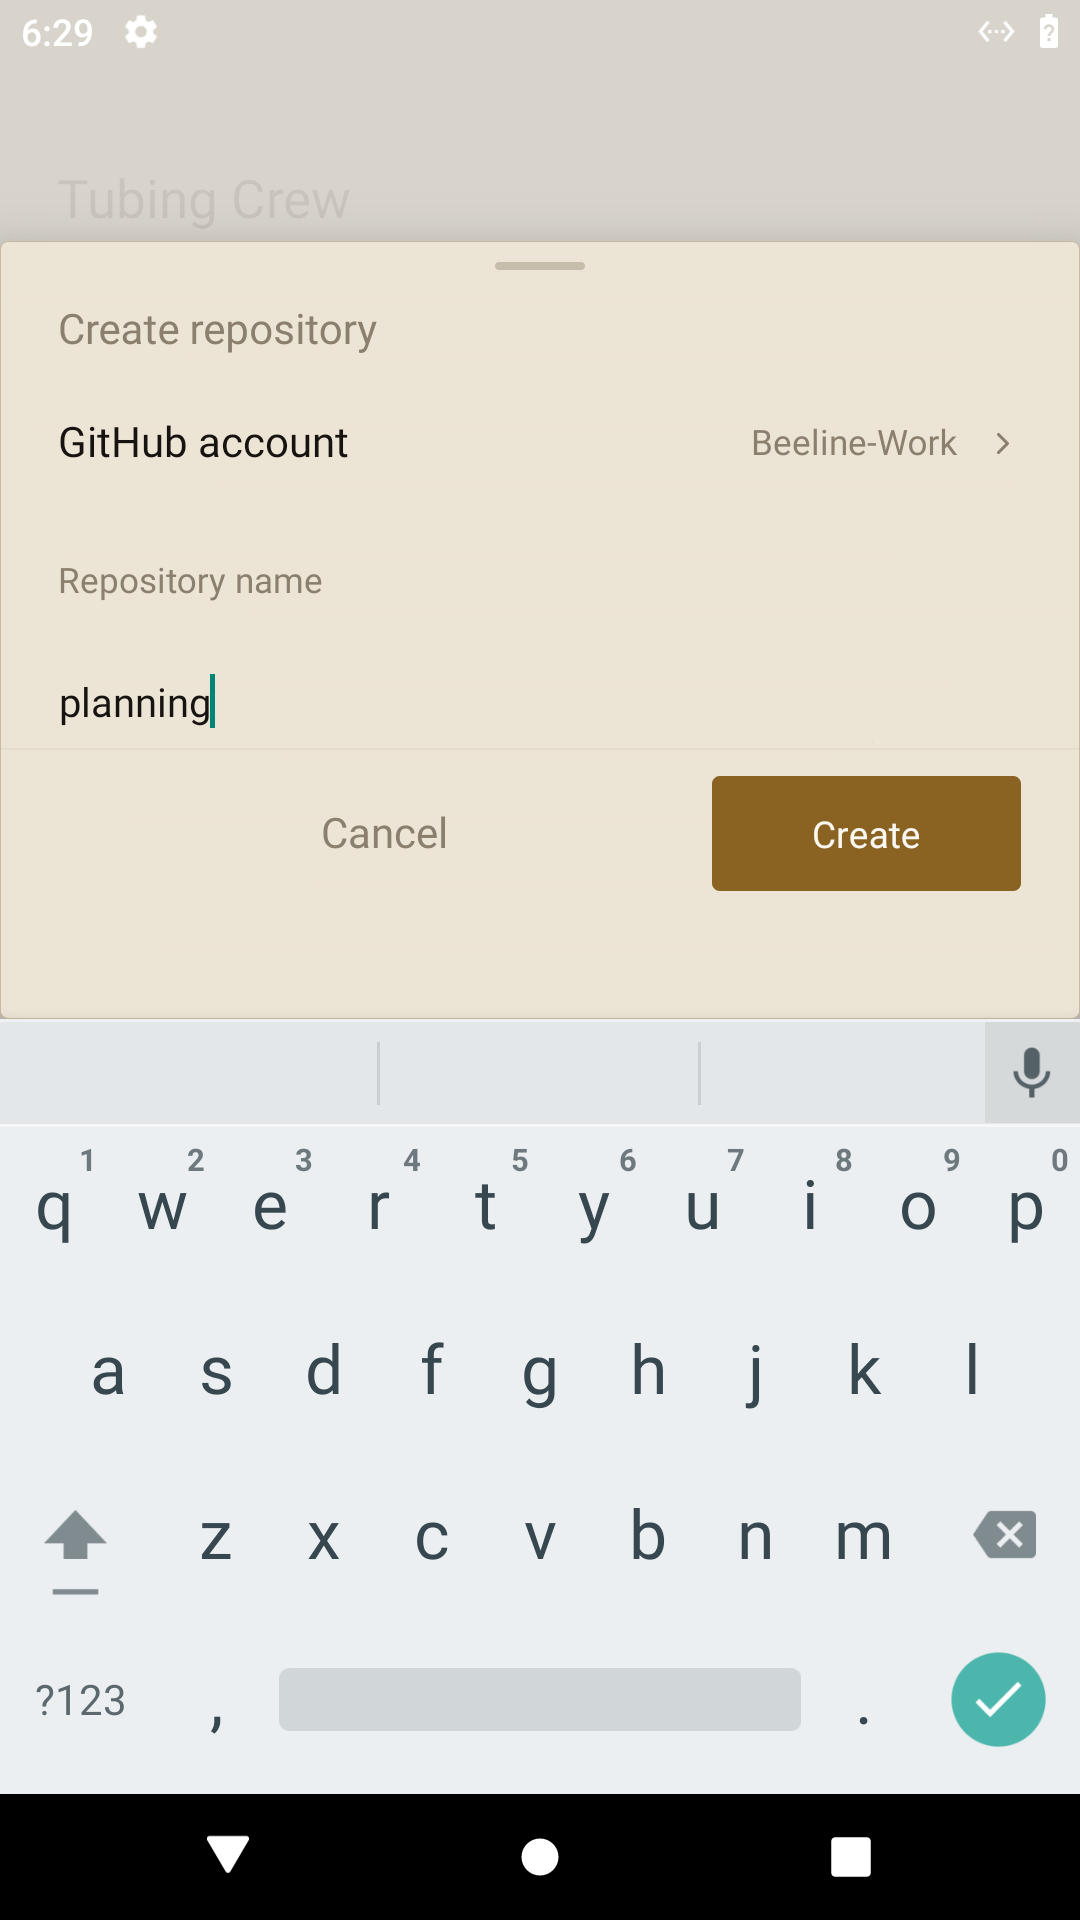
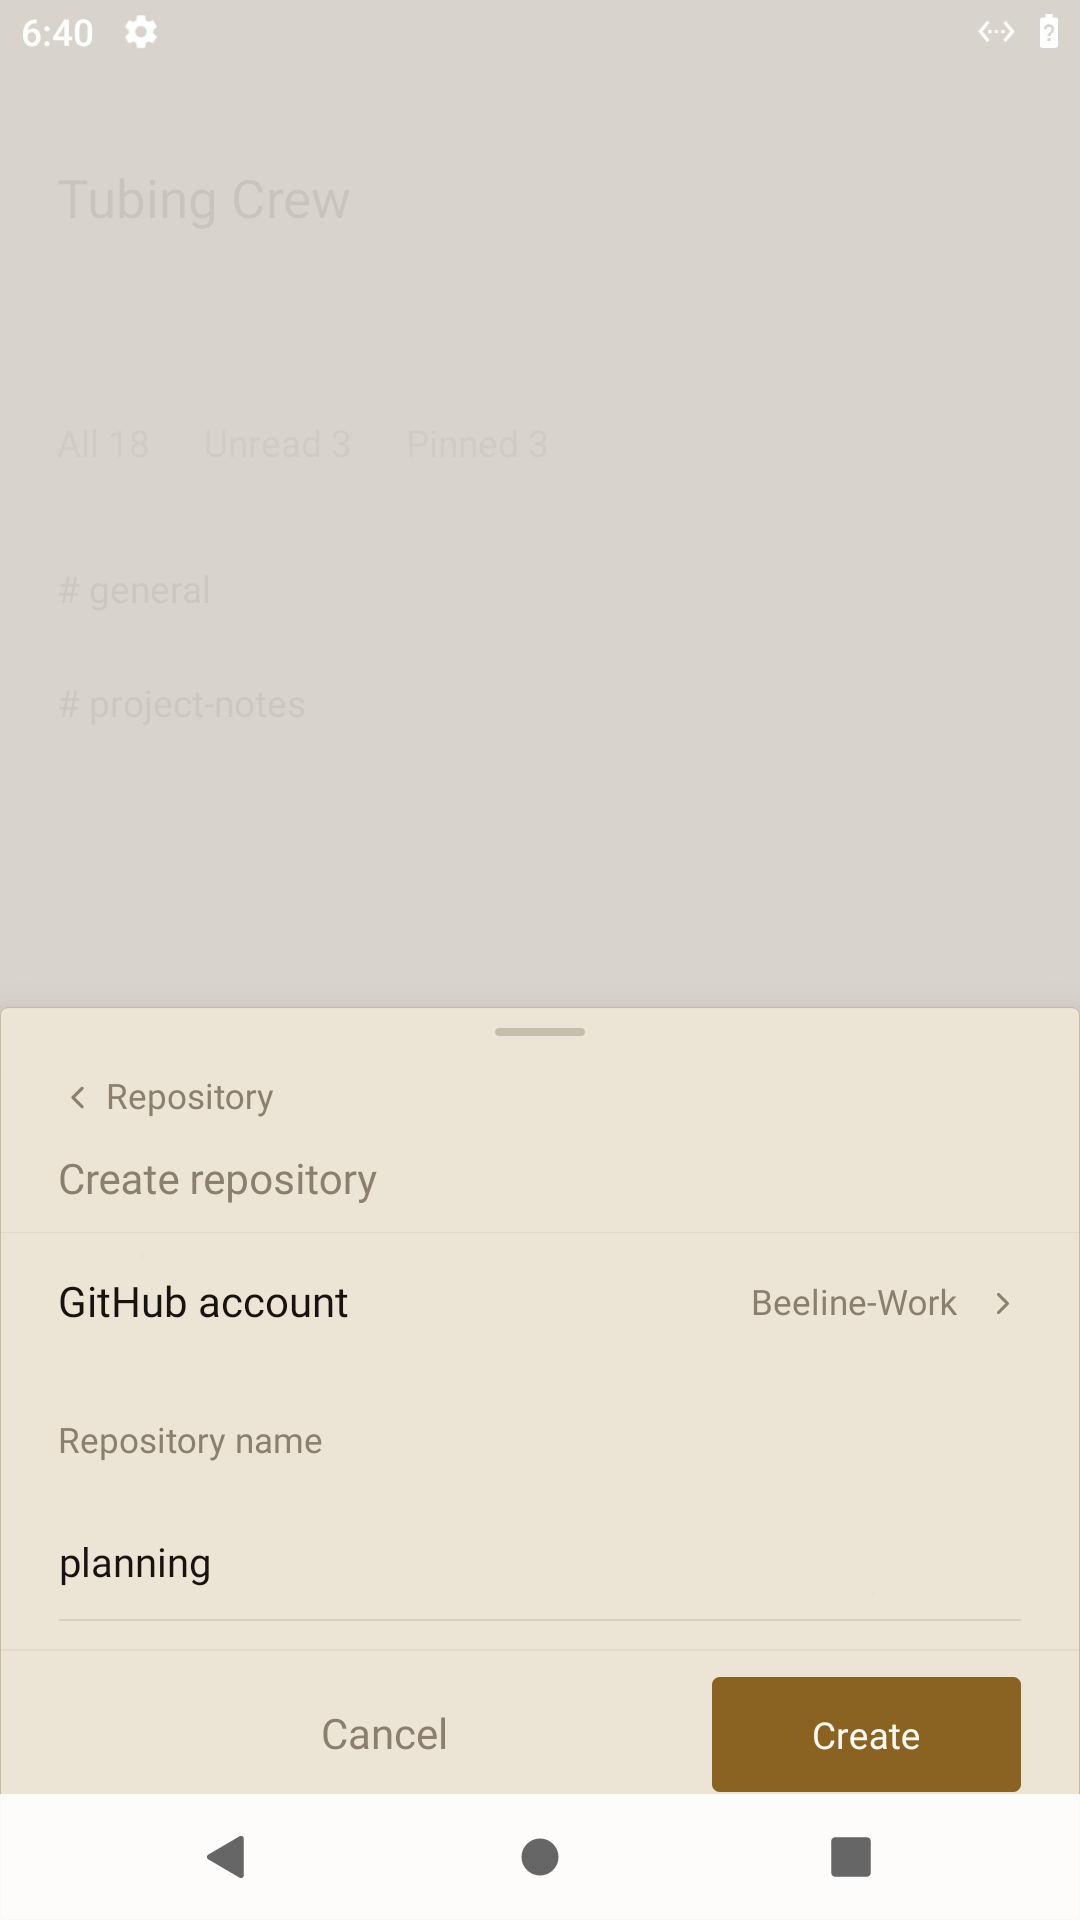
Align Room picker steps with native sheet structure

diff --git a/apps/mobile/sources/components/buzz/NewRoomDialog.tsx b/apps/mobile/sources/components/buzz/NewRoomDialog.tsx
@@ -119,6 +119,20 @@ export function NewRoomDialog({
       dismissOnBackdrop={!creatingRoom && !creatingRepository}
       onClose={closeStep}
       scrollBody={step !== 'picker'}
+      navigation={
+        step === 'create' ? (
+          <TouchableOpacity
+            accessibilityRole="button"
+            disabled={creatingRepository}
+            onPress={() => setCreatingRepoStep(false)}
+            style={styles.backRow}
+            testID="create-repository-back"
+          >
+            <ChevronGlyph color={styles.chevron.color} direction="left" size={CHEVRON_ROW_SIZE} />
+            <Text style={styles.backText}>Repository</Text>
+          </TouchableOpacity>
+        ) : undefined
+      }
       testID="new-room-dialog"
       title={title}
       visible={visible}
@@ -207,15 +221,6 @@ export function NewRoomDialog({
       )}
       {step === 'picker' && (
         <View style={styles.picker} testID="create-room-picker">
-          <TouchableOpacity
-            accessibilityRole="button"
-            onPress={handleSelectNoRepository}
-            style={styles.row}
-            testID="create-room-no-repository"
-          >
-            <Text style={styles.rowLabel}>No repository</Text>
-            {!pendingRepo && <Text style={styles.selectedMark}>✓</Text>}
-          </TouchableOpacity>
           <View style={styles.pickerContent}>
             <RepoPicker
               candidates={repoCandidates}
@@ -232,6 +237,8 @@ export function NewRoomDialog({
                 setCreatingRepoStep(true);
               }}
               onSelect={handleSelectRepoCandidate}
+              onSelectNoRepository={handleSelectNoRepository}
+              noRepositoryInset={HULL_SHEET_INSET}
               testIDPrefix="create-room-repo-picker"
             />
           </View>
@@ -332,6 +339,14 @@ const styles = StyleSheet.create((theme) => {
     },
     chevron: { color: hull.chrome },
     selectedMark: { ...hull.type.body, color: hull.accent },
+    backRow: {
+      minHeight: 32,
+      paddingHorizontal: HULL_SHEET_INSET,
+      flexDirection: 'row',
+      alignItems: 'center',
+      gap: 4,
+    },
+    backText: { ...Typography.default(), ...hull.type.meta, color: hull.chrome },
     picker: { paddingBottom: 8 },
     pickerContent: { paddingHorizontal: HULL_SHEET_INSET, flexShrink: 1 },
     createForm: { paddingBottom: 12 },

diff --git a/apps/mobile/sources/components/buzz/RepoPicker.tsx b/apps/mobile/sources/components/buzz/RepoPicker.tsx
@@ -28,6 +28,8 @@ export type RepoPickerProps = {
    */
   ownerGrant?: OwnerGrantNeeded | null;
   onSelect: (candidate: RepoCandidate) => void;
+  onSelectNoRepository?: () => void;
+  noRepositoryInset?: number;
   onAddAccount?: (owner?: string) => void;
   onManageInstallation?: (installation: GitHubInstallationAccess) => void;
   onCreateRepository?: (installationId: number, name: string) => Promise<void> | void;
@@ -68,6 +70,8 @@ export const RepoPicker = memo(function RepoPicker({
   notice,
   ownerGrant,
   onSelect,
+  onSelectNoRepository,
+  noRepositoryInset = 0,
   onAddAccount,
   onManageInstallation,
   onCreateRepository,
@@ -174,6 +178,20 @@ export const RepoPicker = memo(function RepoPicker({
         style={styles.search}
         value={query}
       />
+      {onSelectNoRepository && (
+        <TouchableOpacity
+          accessibilityRole="button"
+          onPress={onSelectNoRepository}
+          style={[
+            styles.noRepositoryRow,
+            { marginHorizontal: -noRepositoryInset, paddingHorizontal: noRepositoryInset },
+          ]}
+          testID={`${testIDPrefix}-no-repository`}
+        >
+          <Text style={styles.noRepositoryLabel}>No repository</Text>
+          {!currentKey && <Text style={styles.candidateCheck}>✓</Text>}
+        </TouchableOpacity>
+      )}
       {ownerGrant && <OwnerGrantNeededCard {...ownerGrant} />}
       <SectionList
         keyboardShouldPersistTaps="handled"
@@ -395,6 +413,19 @@ const styles = StyleSheet.create((theme) => {
     },
     container: { flexShrink: 1, minHeight: 0 },
     containerFill: { flex: 1 },
+    noRepositoryRow: {
+      minHeight: 54,
+      flexDirection: 'row',
+      alignItems: 'center',
+      borderBottomWidth: StyleSheet.hairlineWidth,
+      borderBottomColor: groknight.border,
+    },
+    noRepositoryLabel: {
+      ...Typography.default(),
+      ...groknight.type.body,
+      color: groknight.textPrimary,
+      flex: 1,
+    },
     candidateScroll: {
       // Height-bounded so a 100+ repo account scrolls instead of rendering past
       // the fold; six 42px rows, see REPO_CANDIDATE_LIST_MAX_HEIGHT.

diff --git a/apps/mobile/sources/components/buzz/HullActionSheet.tsx b/apps/mobile/sources/components/buzz/HullActionSheet.tsx
@@ -21,6 +21,8 @@ type HullActionSheetProps = {
   children: React.ReactNode;
   /** Pinned under the title: cannot scroll away with the sheet body. */
   sticky?: React.ReactNode;
+  /** Navigation shown between the grip and title. */
+  navigation?: React.ReactNode;
   /** Pinned under the body (Cancel). Stays on-screen while the body scrolls. */
   footer?: React.ReactNode;
   /** A virtualized child list owns scrolling for this sheet body. */
@@ -65,6 +67,7 @@ export function HullActionSheet({
   footer,
   scrollBody = true,
   grip = true,
+  navigation,
   sticky,
   style,
   subtitle,
@@ -116,6 +119,7 @@ export function HullActionSheet({
           <View style={styles.grip} />
         </View>
       ) : null}
+      {navigation}
       {title ? (
         <Text accessibilityRole="header" style={styles.title}>
           {title}
@@ -285,6 +289,7 @@ type HullActionSheetModalProps = {
   dismissOnBackdrop?: boolean;
   /** Pinned under the title. */
   sticky?: React.ReactNode;
+  navigation?: React.ReactNode;
   /** Pinned under the scrolling body. */
   footer?: React.ReactNode;
   scrollBody?: boolean;
@@ -305,6 +310,7 @@ export function HullActionSheetModal({
   footer,
   scrollBody,
   modalTestID,
+  navigation,
   onClose,
   scrimTestID,
   sticky,
@@ -330,6 +336,7 @@ export function HullActionSheetModal({
         footer={footer}
         scrollBody={scrollBody}
         grip={!isDesktop}
+        navigation={navigation}
         sticky={sticky}
         style={{ paddingBottom: Math.max(insets.bottom, 10) }}
         subtitle={subtitle}

diff --git a/apps/mobile/sources/components/buzz/NewRoomDialog.test.tsx b/apps/mobile/sources/components/buzz/NewRoomDialog.test.tsx
@@ -141,10 +141,10 @@ describe('New Room sheet', () => {
   });
 
   it('keeps no repository as an explicit picker choice', () => {
-    const { renderer, host, sheet } = mount({ startPicker: true });
+    const { renderer, picker, sheet } = mount({ startPicker: true });
     expect(sheet().title).toBe('Repository');
-    expect(host('create-room-no-repository')).toBeDefined();
-    act(() => host('create-room-no-repository')?.props.onPress());
+    expect(picker().onSelectNoRepository).toBeDefined();
+    act(() => picker().onSelectNoRepository());
     expect(sheet().title).toBe('New Room');
     act(() => renderer.unmount());
   });
@@ -155,7 +155,10 @@ describe('New Room sheet', () => {
     });
     act(() => picker().onStartCreateRepository());
     expect(sheet().title).toBe('Create repository');
-    expect(host('create-room-no-repository')).toBeUndefined();
+    expect(sheet().navigation?.props.testID).toBe('create-repository-back');
+    act(() => sheet().navigation?.props.onPress());
+    expect(sheet().title).toBe('Repository');
+    act(() => picker().onStartCreateRepository());
     expect(host('create-repository-submit')?.props.disabled).toBe(true);
     act(() => host('create-repository-name')?.props.onChangeText('new-repo'));
     await act(async () => host('create-repository-submit')?.props.onPress());

diff --git a/apps/mobile/sources/components/buzz/RepoPicker.test.tsx b/apps/mobile/sources/components/buzz/RepoPicker.test.tsx
@@ -74,6 +74,30 @@ function searchFor(renderer: ReactTestRenderer, query: string): void {
 }
 
 describe('RepoPicker', () => {
+  it('puts the optional no-repository choice after search', () => {
+    const onSelectNoRepository = vi.fn();
+    let renderer!: ReactTestRenderer;
+    act(() => {
+      renderer = create(
+        <RepoPicker
+          candidates={[]}
+          onSelect={() => {}}
+          onSelectNoRepository={onSelectNoRepository}
+        />,
+      );
+    });
+    const children = renderer.root.findAll(
+      (node: any) => node.type === 'View' && node.props.testID === 'repo-picker',
+    )[0].children;
+    expect((children[0] as any).props.accessibilityLabel).toBe(
+      'Search repositories or paste a GitHub URL',
+    );
+    expect((children[1] as any).props.testID).toBe('repo-picker-no-repository');
+    act(() => (children[1] as any).props.onPress());
+    expect(onSelectNoRepository).toHaveBeenCalledTimes(1);
+    act(() => renderer.unmount());
+  });
+
   it('names every resource the GitHub installation action can add', () => {
     let renderer!: ReactTestRenderer;
     act(() => {

diff --git a/apps/mobile/evidence/new-room-sheet/README.md b/apps/mobile/evidence/new-room-sheet/README.md
@@ -6,7 +6,7 @@ These Android captures compare the Room creation flow with an existing Beeline b
 | --- | --- |
 | [New Room](new-room-native.png) | Native debug build, Room form with fixture data |
 | [Repository picker](repository-picker-native.png) | Same build and fixture data |
-| [Create repository](create-repository-native.png) | Same build, name entered; keyboard visible |
+| [Create repository](create-repository-native.png) | Same build, name entered; keyboard closed |
 | [Existing Message picker](existing-message-picker-native.png) | Installed Beeline app, existing bottom sheet |
 
 The debug preview mounted the production `NewRoomDialog` component with local fixture repositories; it did not call GitHub or create a live Room. It used the existing Bone theme and native Android controls. The temporary preview entry point was removed after capture.
